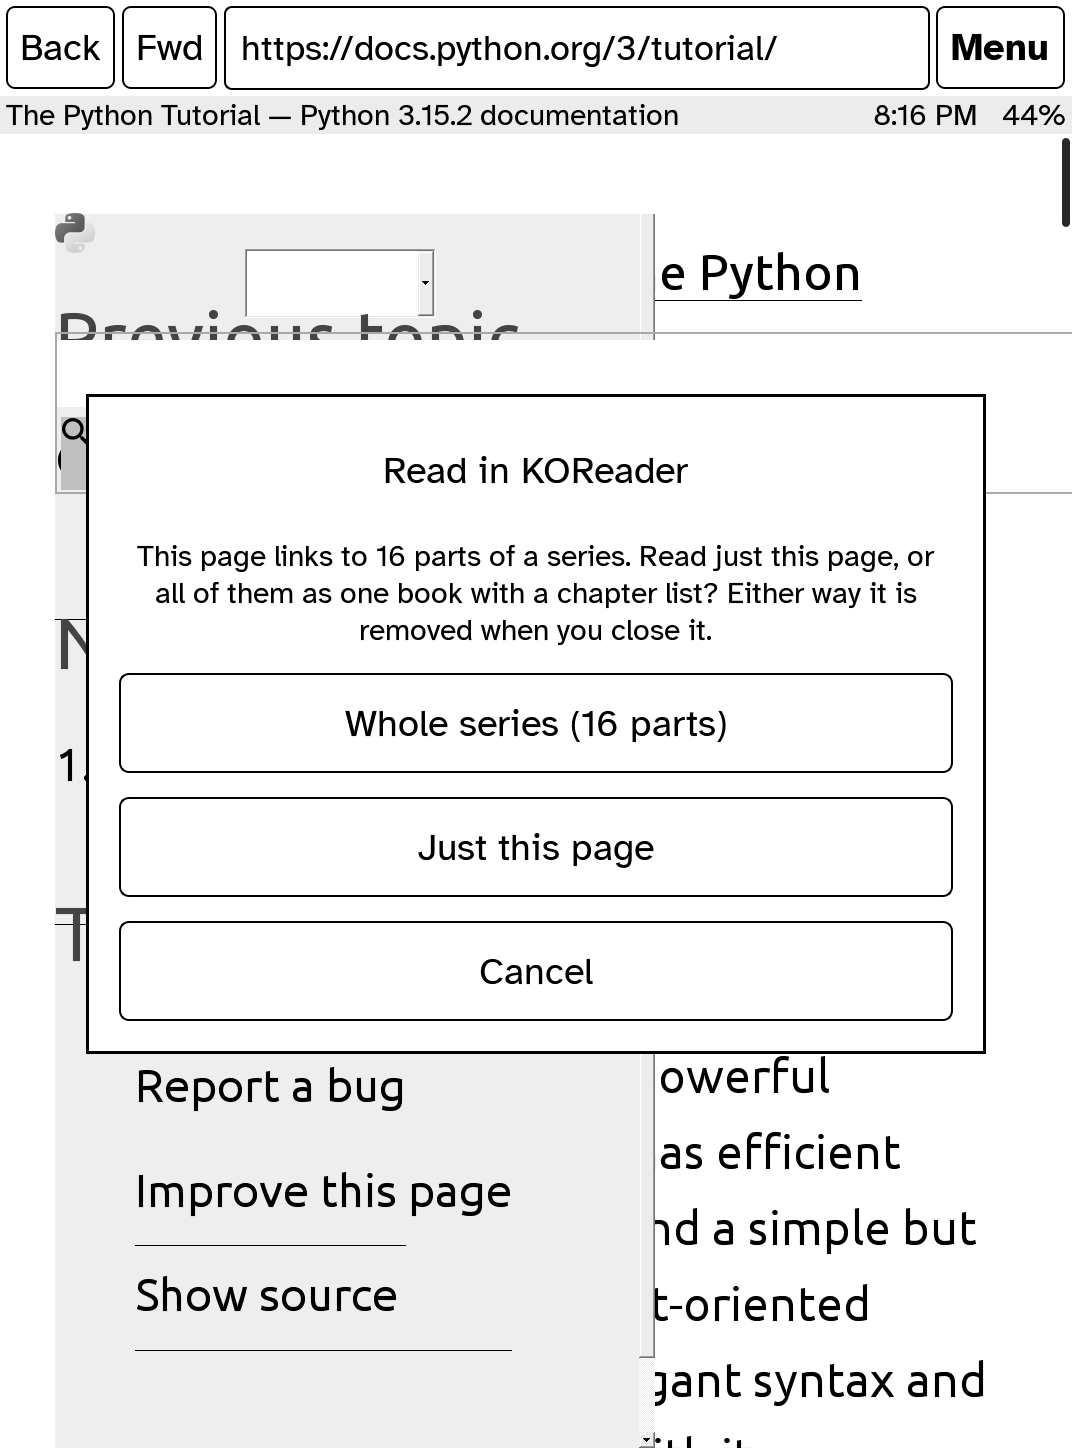
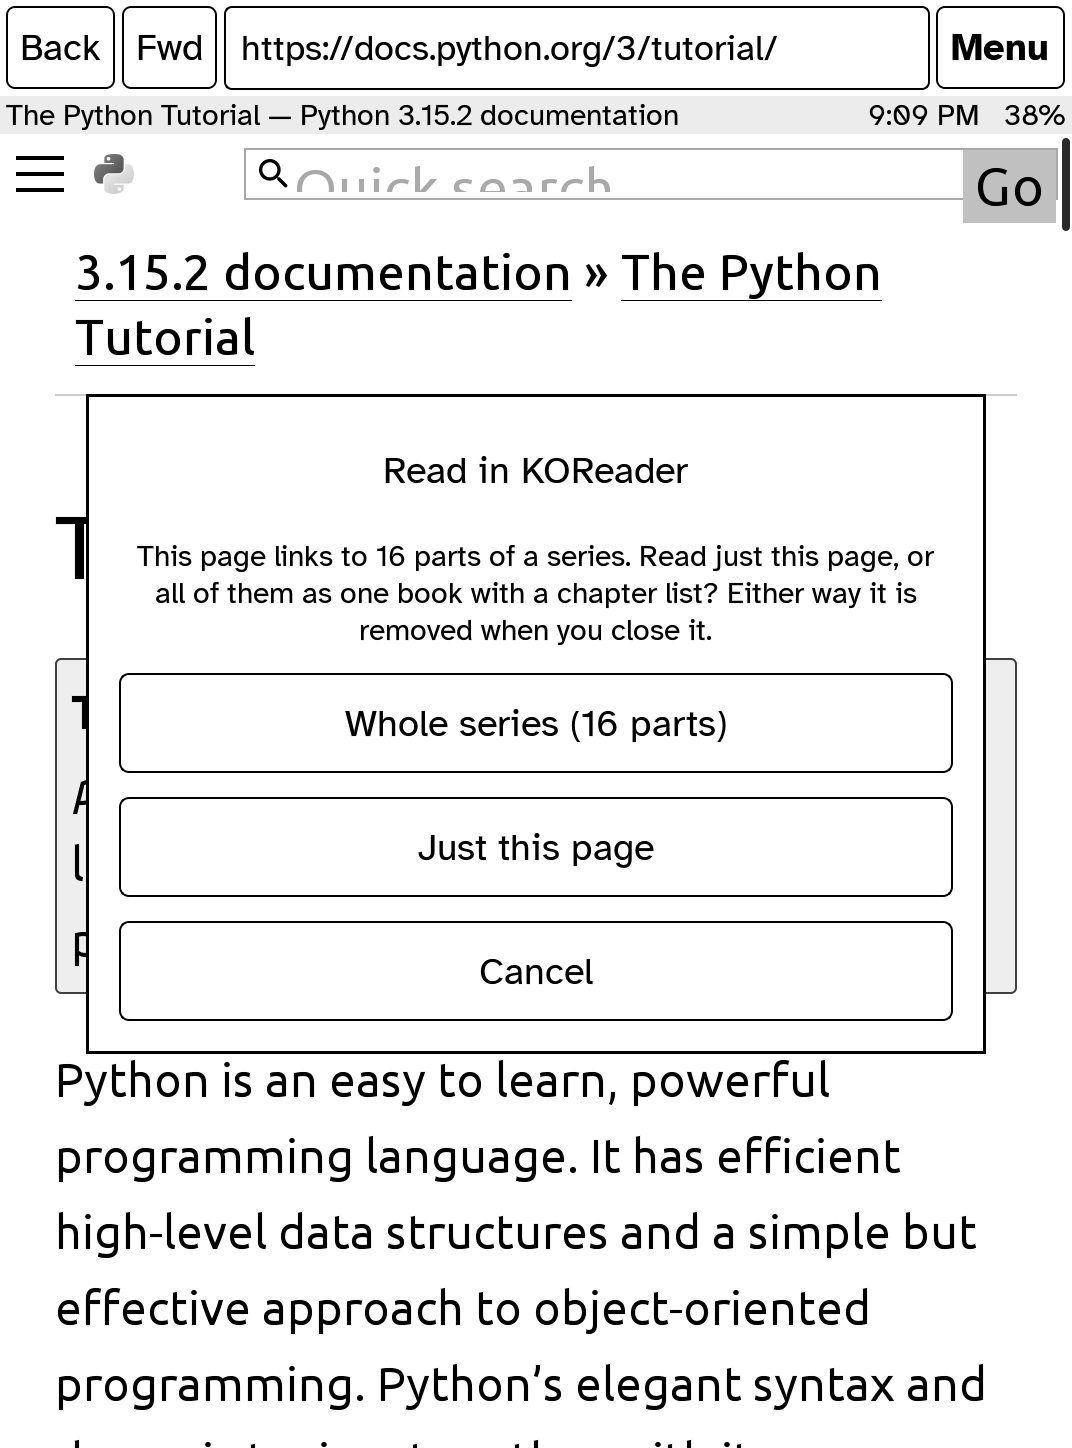
README: modern page styles; retake series pop-up screenshots on the fixed page

diff --git a/README.md b/README.md
@@ -40,6 +40,10 @@ pauses while the browser is open and comes back when you exit.
 - Modern page styles: style sheets written for current browsers (CSS variables, flexbox,
   transforms, `calc()`, `clamp()`) are rewritten into the older forms the Kobo's 2013
   WebKit understands, so slide-in menus stay hidden and layouts hold together.
+- Modern page styles: pages written for current browsers are translated on the fly for
+  the firmware's 2013-era engine (prefixed transforms and flexbox, CSS variables,
+  min()/max()), so off-screen menus stay hidden and layouts hold together. Can be turned off
+  under Tools → Web browser → Fix modern page styles.
 - **Send to Kobo**: scan the QR code (Menu → From phone) with your phone, paste a link on
   the page that opens, and it loads on the Kobo.
 - **Save**: turns the current article into an EPUB (Mozilla Readability plus the article's
